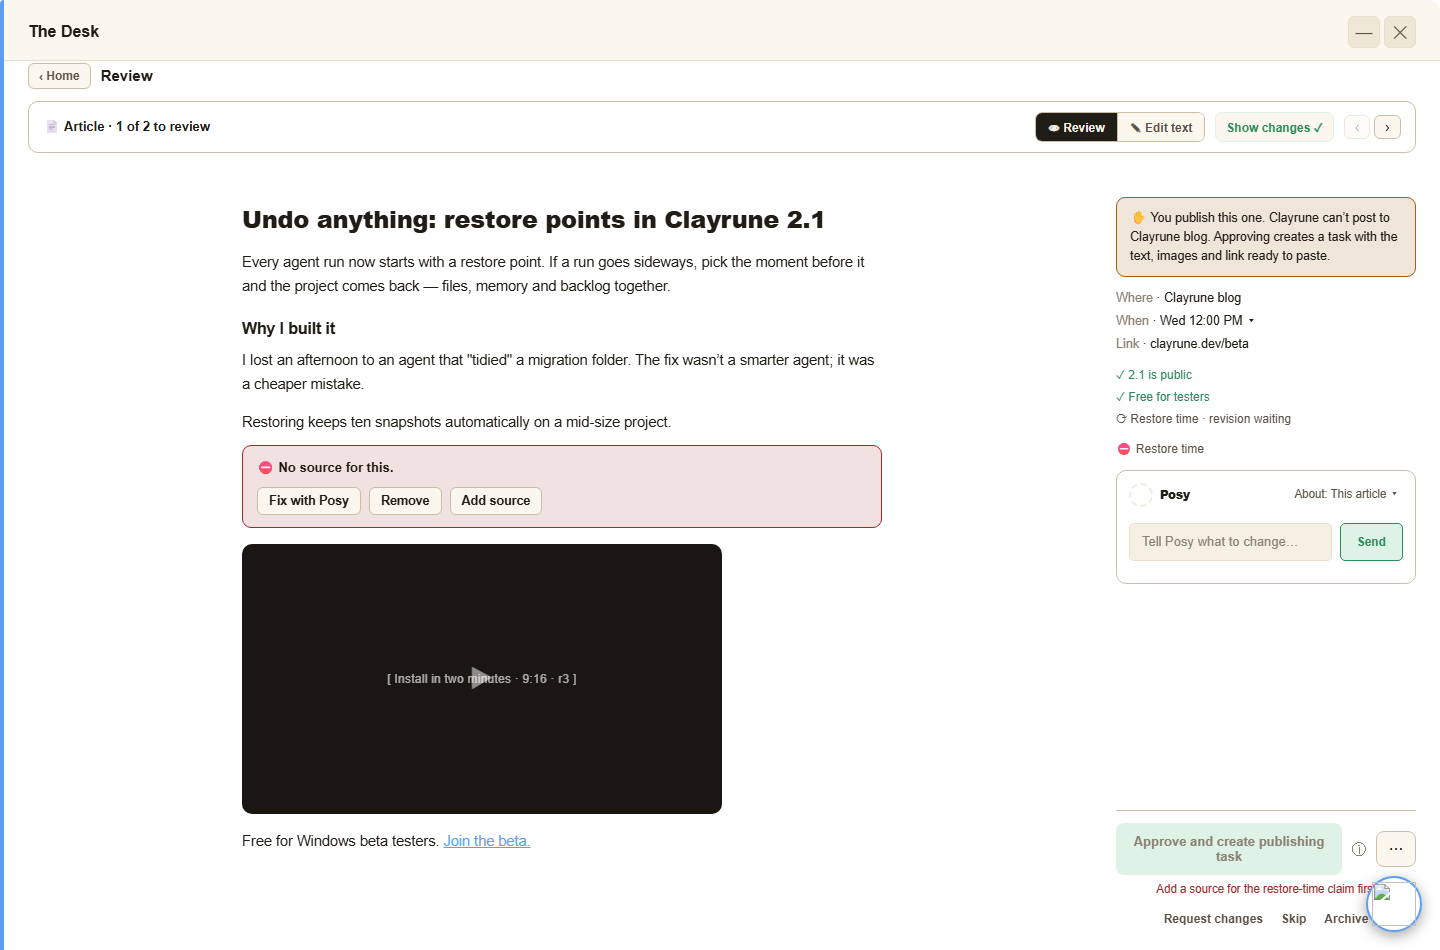
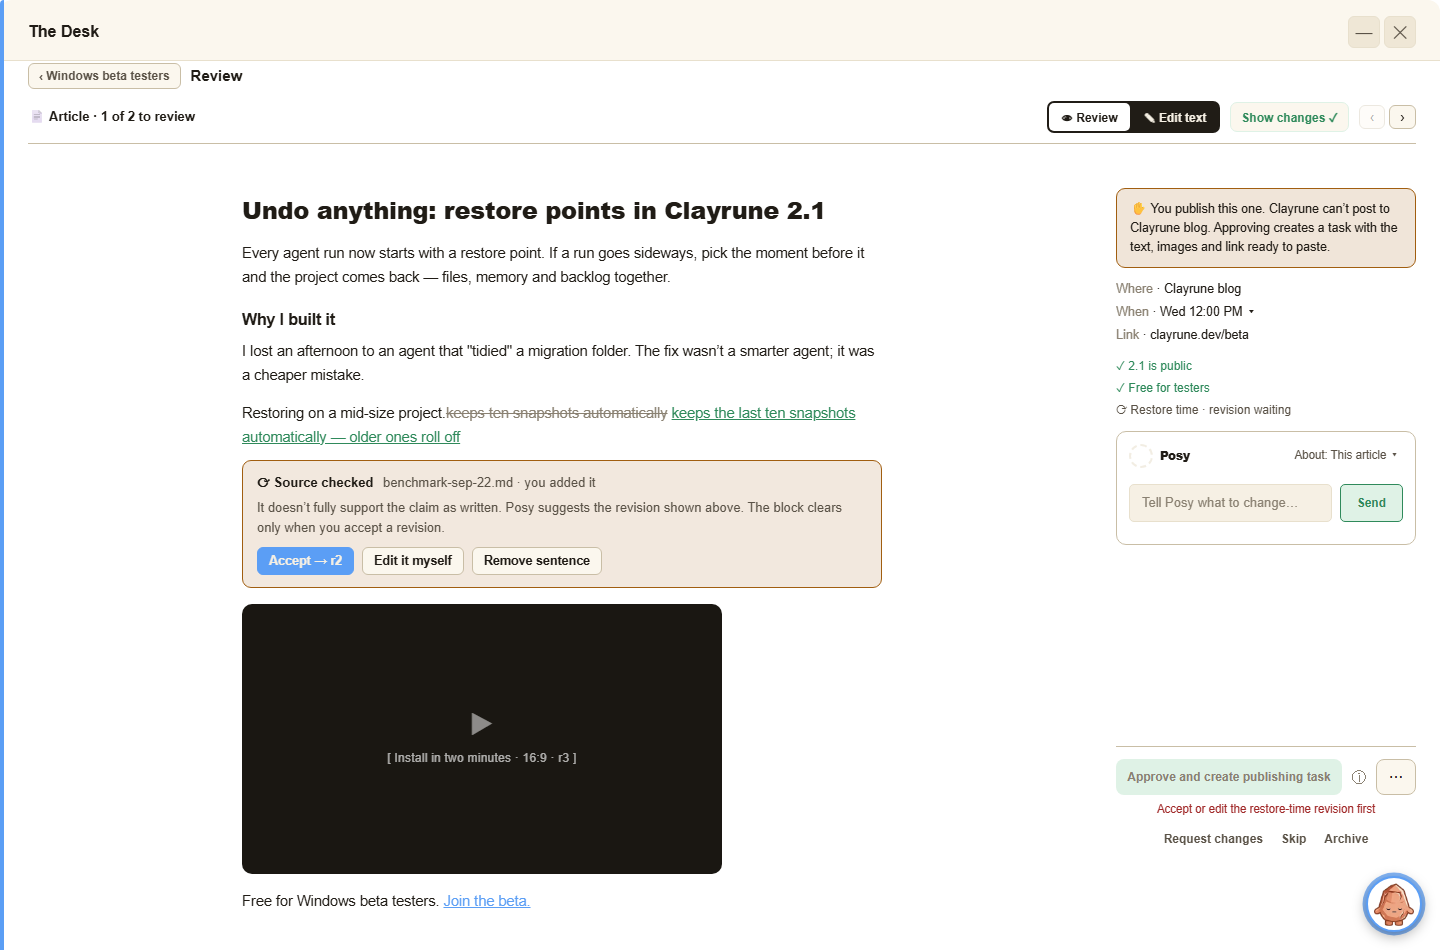
Desk v1 T3 review: Dave's fix-list pass (aspect ratio, toggle contrast, claim dedupe, FAB clearance)
Fixes six issues Dave flagged against frame 12b:
- Video placeholder now sets aspect-ratio from the version's own format
  (9:16 vs 16:9) instead of a hardcoded 16:9 box, so the caption and the
  box shape never disagree; play icon moved to its own line above the
  caption instead of overlapping it.
- _embedHTML now picks the version actually awaiting review (falls back
  to any version with a format) instead of always the widest-reach one.
- Claim rail no longer double-lists a claim that's already surfaced in
  the "why" checks above it with a possibly-contradictory status.
- Fixture no longer bakes "· revision waiting" into a still-blocked
  claim's label; the suffix is real review.js state now.
- Mode toggle redrawn to frame 12b's dark-track/light-active-pill scheme
  (was the reverse).
- Review header flattened to a bottom rule flush with the shell crumb bar
  (frame reads as one header, not two stacked cards); rail gets 80px
  bottom padding so the Claydo FAB (56px + 18px gap, always-on-top at
  z-index 1500) stops clipping the disabled-reason text and Skip/Archive
  row; primary button now truncates with ellipsis instead of wrapping to
  two lines when its label is long.

Screenshots re-shot via a real Add-source -> Check user path so they show
12b's actual checked/inline-diff/Accept state, not a fixture shortcut.

diff --git a/static/css/desk-v1.css b/static/css/desk-v1.css
@@ -165,21 +165,29 @@
 
 .desk-v1-review { display: flex; flex-direction: column; gap: 10px; height: 100%; min-height: 0; }
 
+/* Flush with the shell's own crumb bar above it (frame 12b reads as one
+   continuous header, not two stacked cards) — a bottom rule instead of a
+   floating bordered card. The crumb bar itself is T0a's file (desk-v1-
+   shell.js, docs/desk_v1_r0_plan.md T3 "Files:" line) and shared by every
+   other route, so it isn't merged away here; this is as close as a T3-only
+   change gets. */
 .desk-v1-review-header {
   display: flex; align-items: center; justify-content: space-between; gap: 12px;
-  flex: 0 0 auto; padding: 10px 14px; border: 1px solid var(--border2); border-radius: 10px;
-  background: var(--surface); flex-wrap: wrap;
+  flex: 0 0 auto; padding: 0 0 10px; border-bottom: 1px solid var(--border2);
+  flex-wrap: wrap;
 }
 .desk-v1-review-kind { font-size: 13px; font-weight: 600; color: var(--text); }
 .desk-v1-review-controls { display: flex; align-items: center; gap: 10px; flex-wrap: wrap; }
 
-.desk-v1-review-modetoggle { display: inline-flex; border: 1px solid var(--border2); border-radius: 7px; overflow: hidden; }
+/* Frame 12b: a dark track with the ACTIVE segment as a light pill (not the
+   reverse) — the track itself carries the dark fill, inactive buttons are
+   transparent over it, and only the pressed one gets a light background. */
+.desk-v1-review-modetoggle { display: inline-flex; background: var(--text); border-radius: 7px; overflow: hidden; padding: 2px; gap: 2px; }
 .desk-v1-review-modetoggle button {
-  background: var(--surface2); border: none; color: var(--text-dim); font-size: 12px; font-weight: 600;
-  padding: 6px 12px; cursor: pointer; font-family: inherit;
+  background: transparent; border: none; color: var(--bg); font-size: 12px; font-weight: 600;
+  padding: 6px 12px; cursor: pointer; font-family: inherit; border-radius: 5px;
 }
-.desk-v1-review-modetoggle button + button { border-left: 1px solid var(--border2); }
-.desk-v1-review-modetoggle button[aria-pressed="true"] { background: var(--text); color: var(--bg); }
+.desk-v1-review-modetoggle button[aria-pressed="true"] { background: var(--surface); color: var(--text); }
 
 .desk-v1-review-showchanges {
   background: var(--surface2); border: 1px solid var(--border2); border-radius: 7px;
@@ -207,7 +215,12 @@
 .desk-v1-review-layout { flex: 1 1 auto; min-height: 0; display: flex; gap: 20px; overflow-y: auto; }
 .desk-v1-review-main { flex: 1 1 auto; min-width: 0; display: flex; justify-content: center; }
 .desk-v1-review-article, .desk-v1-review-video { max-width: 640px; width: 100%; position: relative; }
-.desk-v1-review-rail { flex: 0 0 300px; display: flex; flex-direction: column; gap: 12px; }
+/* Bottom clearance matches the Claydo FAB's fixed footprint (56px + 18px
+   gap, app.css .claydo-fab) — app chrome that outlives this ticket and sits
+   above every modal (z-index 1500). The rail's own action row would
+   otherwise land directly under it at full-viewport width (reported: the
+   FAB clipped the disabled-reason text and Skip/Archive). */
+.desk-v1-review-rail { flex: 0 0 300px; display: flex; flex-direction: column; gap: 12px; padding-bottom: 80px; }
 
 .desk-v1-review-title { font-size: 24px; font-weight: 800; color: var(--text); margin: 4px 0 14px; }
 .desk-v1-review-h2 { font-size: 16px; font-weight: 700; color: var(--text); margin: 18px 0 8px; }
@@ -222,11 +235,15 @@
 
 .desk-v1-review-embed { margin: 0 0 16px; }
 .desk-v1-review-videobox {
-  position: relative; background: #1a1712; border-radius: 10px; aspect-ratio: 16 / 9;
+  position: relative; background: #1a1712; border-radius: 10px;
   display: flex; align-items: center; justify-content: center; overflow: hidden;
 }
 .desk-v1-review-videobox-sm { max-width: 480px; }
-.desk-v1-review-playicon { position: absolute; font-size: 28px; color: rgba(255,255,255,0.5); }
+/* Icon stacked above the caption, not on top of it (frame 12b never overlaps
+   the two — the box only shows the caption; the play glyph is this build's
+   own addition, so it gets its own line rather than sitting on the text). */
+.desk-v1-review-videoinner { display: flex; flex-direction: column; align-items: center; gap: 10px; }
+.desk-v1-review-playicon { font-size: 28px; color: rgba(255,255,255,0.5); line-height: 1; }
 .desk-v1-review-videocaption { color: rgba(255,255,255,0.65); font-size: 12px; letter-spacing: 0.02em; }
 .desk-v1-review-videonote { margin-top: 10px; font-size: 12.5px; color: var(--amber-text); }
 
@@ -309,8 +326,9 @@
 .desk-v1-review-actions { border-top: 1px solid var(--border2); padding-top: 12px; margin-top: auto; }
 .desk-v1-review-actions-row { display: flex; align-items: center; gap: 8px; }
 .desk-v1-review-primary {
-  flex: 1 1 auto; background: var(--green); border: none; border-radius: 8px; color: var(--bg);
-  font-size: 13px; font-weight: 700; padding: 11px 14px; cursor: pointer; font-family: inherit;
+  flex: 1 1 auto; min-width: 0; background: var(--green); border: none; border-radius: 8px; color: var(--bg);
+  font-size: 12px; font-weight: 700; padding: 11px 8px; cursor: pointer; font-family: inherit;
+  white-space: nowrap; overflow: hidden; text-overflow: ellipsis;
 }
 .desk-v1-review-primary:disabled { background: var(--green-dim); color: var(--text-faint); cursor: not-allowed; }
 .desk-v1-review-more { position: relative; }

diff --git a/static/js/desk-v1-review.js b/static/js/desk-v1-review.js
@@ -209,9 +209,13 @@
   function _embedHTML(familyId) {
     const fam = (_fx().families || []).find((f) => f.id === familyId);
     if (!fam) return '';
-    // Pick the widest-reach rendered version for the caption (decorative —
-    // CNT-02 "embedded media", not a second player to interact with).
-    const v = fam.versions.find((x) => x.format) || fam.versions[0];
+    // Pick the version actually awaiting review (falls back to any version
+    // with a format, then the first) — the caption must describe the SAME
+    // version whose format drives the box's shape below it, or the caption
+    // and the rendered aspect ratio disagree (frame 12b: "16:9 · r3" on a
+    // landscape box, not the published 9:16 cut).
+    const v = fam.versions.find((x) => x.state === 'needs_review' && x.format)
+      || fam.versions.find((x) => x.format) || fam.versions[0];
     const rev = (fam.render && fam.render.revision) || v.revision;
     return `<div class="desk-v1-review-embed" data-para-id="p-embed" contenteditable="false">
       ${_videoPlaceholderHTML(fam.title, v.format || '16:9', rev, { small: true })}
@@ -220,9 +224,16 @@
 
   function _videoPlaceholderHTML(title, format, revision, opts) {
     opts = opts || {};
-    return `<div class="desk-v1-review-videobox${opts.small ? ' desk-v1-review-videobox-sm' : ''}">
-      <span class="desk-v1-review-playicon" aria-hidden="true">▶</span>
-      <span class="desk-v1-review-videocaption">[ ${esc(title)} · ${esc(format)} · r${esc(revision)} ]</span>
+    // aspect-ratio follows the format being captioned — a 9:16 caption on a
+    // fixed 16:9 box (or vice versa) is the shape/label mismatch frame 12b
+    // never shows.
+    const portrait = /^\s*9\s*:\s*16\s*$/.test(format || '');
+    const ratio = portrait ? '9 / 16' : '16 / 9';
+    return `<div class="desk-v1-review-videobox${opts.small ? ' desk-v1-review-videobox-sm' : ''}" style="aspect-ratio:${ratio}">
+      <div class="desk-v1-review-videoinner">
+        <span class="desk-v1-review-playicon" aria-hidden="true">▶</span>
+        <span class="desk-v1-review-videocaption">[ ${esc(title)} · ${esc(format)} · r${esc(revision)} ]</span>
+      </div>
     </div>`;
   }
 
@@ -340,7 +351,11 @@
       return `<div class="desk-v1-review-check" data-ok="${!!ok}">${glyph} ${esc(label)}</div>`;
     }).join('');
 
-    const claimsList = (detail.claims || []).map((c) => {
+    // A claim already surfaced in the "why" checks (above) is not repeated
+    // here — frame 12b's rail has ONE row per reason, never a claim listed
+    // twice with two different (and here, contradictory) statuses.
+    const checkedClaimIds = new Set((detail.whyChecks || []).map((c) => c.claimId).filter(Boolean));
+    const claimsList = (detail.claims || []).filter((c) => !checkedClaimIds.has(c.id)).map((c) => {
       const s = _st.claims[c.id] || { status: c.state };
       const copy = CLAIM_COPY[s.status] || CLAIM_COPY.blocked;
       return `<div class="desk-v1-review-claimrow">${copy.glyph} ${esc(c.label)}</div>`;

diff --git a/static/js/desk-v1-fixtures.js b/static/js/desk-v1-fixtures.js
@@ -165,7 +165,10 @@
       whyChecks: [
         { label: '2.1 is public', ok: true },
         { label: 'Free for testers', ok: true },
-        { label: 'Restore time · revision waiting', claimId: 'claim-1' },
+        // Suffix is NOT baked in here — desk-v1-review.js appends "·
+        // revision waiting" only once the claim is actually 'checked'; a
+        // still-blocked claim (the baseline above) has no revision yet.
+        { label: 'Restore time', claimId: 'claim-1' },
       ],
       comments: [],
     },
